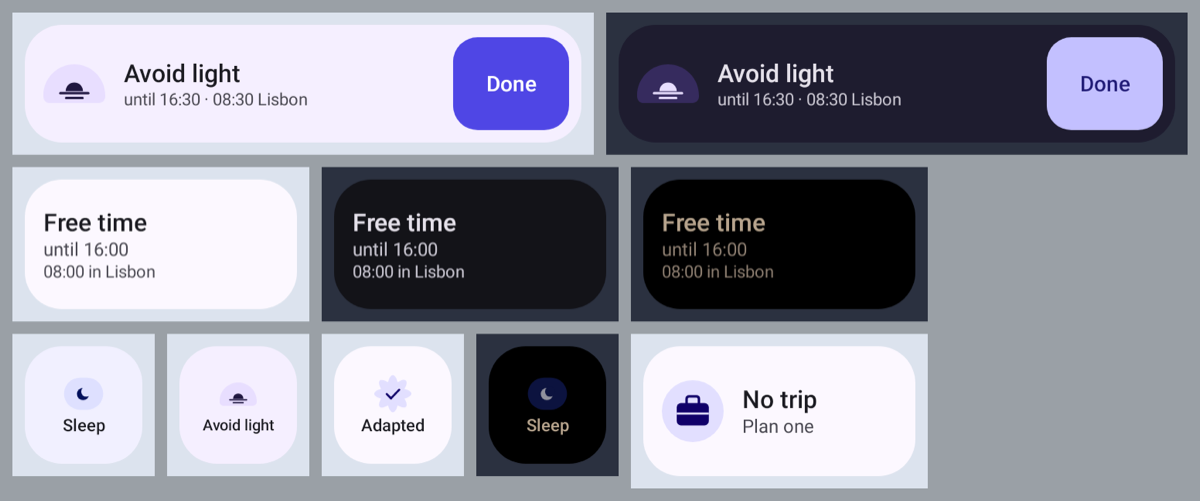
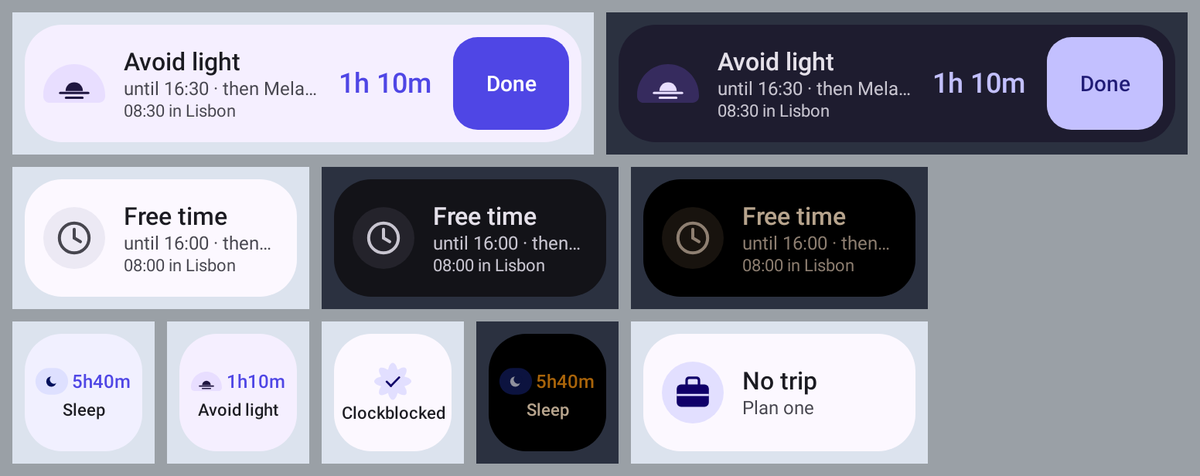
Docs: keep the old widget-next-up until a device capture (#129)
The golden has no live countdown, which the widget shows on the home screen.

diff --git a/user-guide/widgets-and-notifications.md b/user-guide/widgets-and-notifications.md
@@ -100,7 +100,7 @@ you've adapted.
 
 ### Next up
 
-<img src="images/widget-next-up.png" alt="Next up widgets: rows in light and dark saying Avoid light, until 16:30, 08:30 Lisbon, with a Done button; Free time until 16:00, 08:00 in Lisbon, in light, dark and night-safe; small tiles with Sleep, Avoid light, Adapted and a night-safe Sleep; and No trip, Plan one. The live countdown is left out of this picture." width="480" />
+<img src="images/widget-next-up.png" alt="Next up widgets: rows in light and dark saying Avoid light until 16:30, then Melatonin, 08:30 in Lisbon, with a 1h 10m countdown and a Done button; Free time until 16:00, 08:00 in Lisbon, in light, dark and night-safe; small tiles with Sleep 5h40m, Avoid light 1h10m and Clockblocked; and No trip, Plan one." width="480" />
 
 The *Next up* widget shows the current block with a countdown. The smallest size shows only the countdown and a
 short label. Bigger sizes add the time in your other zone and a **Done** button, and the tallest and widest ones
